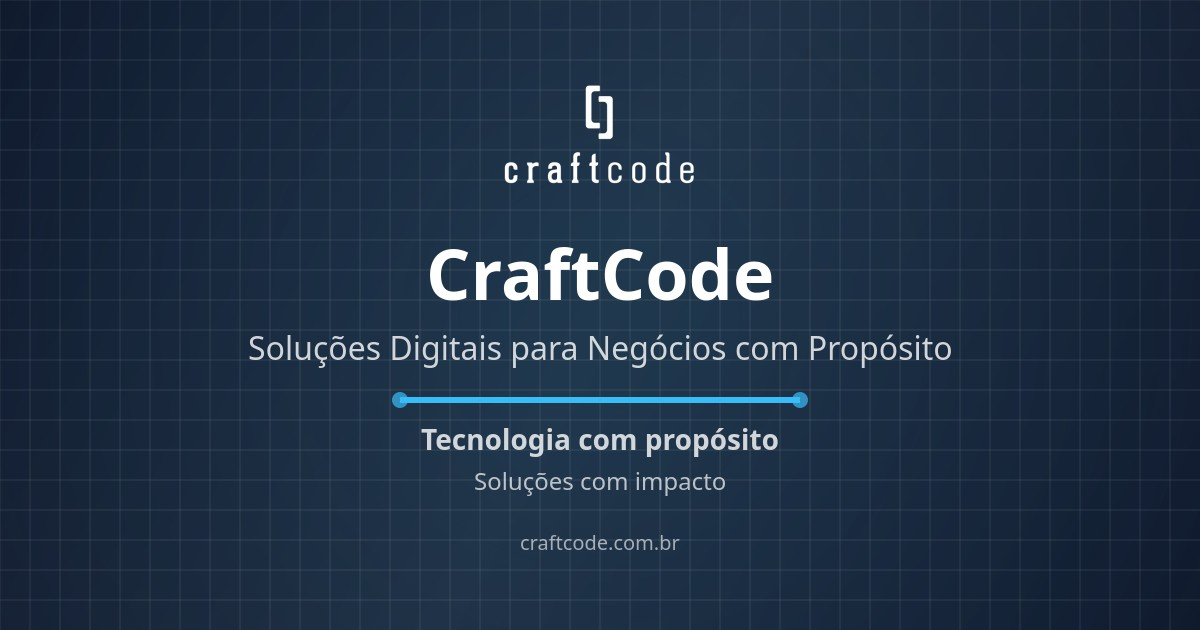
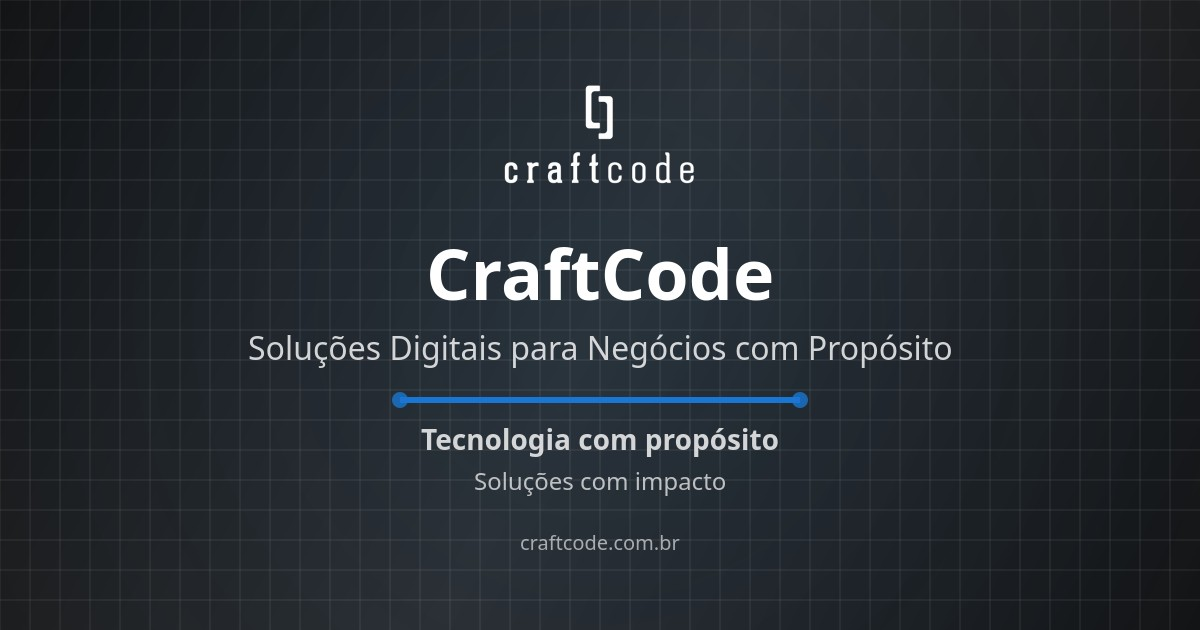
feat(branding): update OG images with official brand color palettes

diff --git a/scripts/generate-og-image.js b/scripts/generate-og-image.js
@@ -41,18 +41,18 @@ async function generateMainOgImage() {
   const canvas = createCanvas(1200, 630);
   const ctx = canvas.getContext('2d');
 
-  // Draw gradient background
+  // Draw gradient background using CraftCode brand colors
   const gradient = ctx.createLinearGradient(0, 0, 1200, 630);
-  gradient.addColorStop(0, '#0f172a');    // Tailwind slate-900
-  gradient.addColorStop(0.5, '#1e293b');  // Tailwind slate-800
-  gradient.addColorStop(1, '#0f172a');    // Tailwind slate-900
+  gradient.addColorStop(0, '#121212');    // Preto Fosco - Primary brand color
+  gradient.addColorStop(0.5, '#2B2B2B');  // Cinza Grafite
+  gradient.addColorStop(1, '#121212');    // Preto Fosco - Primary brand color
   ctx.fillStyle = gradient;
   ctx.fillRect(0, 0, 1200, 630);
   
   // Add a subtle radial gradient overlay for depth
   const radialGradient = ctx.createRadialGradient(600, 315, 100, 600, 315, 800);
-  radialGradient.addColorStop(0, 'rgba(56, 189, 248, 0.1)');  // Tailwind sky-400 with opacity
-  radialGradient.addColorStop(1, 'rgba(56, 189, 248, 0)');
+  radialGradient.addColorStop(0, 'rgba(25, 118, 210, 0.1)');  // Azul Petróleo with opacity
+  radialGradient.addColorStop(1, 'rgba(25, 118, 210, 0)');
   ctx.fillStyle = radialGradient;
   ctx.fillRect(0, 0, 1200, 630);
 
@@ -99,7 +99,7 @@ async function generateMainOgImage() {
   ctx.fillText('Soluções Digitais para Negócios com Propósito', 600, 360);
 
   // Add accent line
-  ctx.strokeStyle = '#38bdf8'; // Tailwind sky-400
+  ctx.strokeStyle = '#1976D2'; // Azul Petróleo - Secondary brand color
   ctx.lineWidth = 6;
   ctx.beginPath();
   ctx.moveTo(400, 400);
@@ -107,7 +107,7 @@ async function generateMainOgImage() {
   ctx.stroke();
   
   // Add decorative elements
-  ctx.fillStyle = 'rgba(56, 189, 248, 0.7)';
+  ctx.fillStyle = 'rgba(25, 118, 210, 0.8)'; // Azul Petróleo with opacity
   ctx.beginPath();
   ctx.arc(400, 400, 8, 0, Math.PI * 2);
   ctx.fill();
@@ -151,16 +151,16 @@ async function generateCardapioFacilOgImage() {
 
   // Draw gradient background - using a warmer color palette for food-related product
   const gradient = ctx.createLinearGradient(0, 0, 1200, 630);
-  gradient.addColorStop(0, '#7c2d12');    // Tailwind amber-900
-  gradient.addColorStop(0.5, '#9a3412');  // Tailwind amber-800
-  gradient.addColorStop(1, '#7c2d12');    // Tailwind amber-900
+  gradient.addColorStop(0, '#E65100');    // Deep Orange 900 - Warm food color
+  gradient.addColorStop(0.5, '#F57C00');  // Orange 800 - Vibrant food color
+  gradient.addColorStop(1, '#E65100');    // Deep Orange 900 - Warm food color
   ctx.fillStyle = gradient;
   ctx.fillRect(0, 0, 1200, 630);
   
   // Add a subtle radial gradient overlay for depth
   const radialGradient = ctx.createRadialGradient(600, 315, 100, 600, 315, 800);
-  radialGradient.addColorStop(0, 'rgba(251, 191, 36, 0.1)');  // Tailwind amber-400 with opacity
-  radialGradient.addColorStop(1, 'rgba(251, 191, 36, 0)');
+  radialGradient.addColorStop(0, 'rgba(255, 183, 77, 0.15)');  // Orange 300 with opacity
+  radialGradient.addColorStop(1, 'rgba(255, 183, 77, 0)');
   ctx.fillStyle = radialGradient;
   ctx.fillRect(0, 0, 1200, 630);
 
@@ -206,7 +206,7 @@ async function generateCardapioFacilOgImage() {
   ctx.fillText('Planejamento de Refeições com IA', 600, 350);
 
   // Add accent line
-  ctx.strokeStyle = '#fbbf24'; // Tailwind amber-400
+  ctx.strokeStyle = '#FFB74D'; // Orange 300 - Vibrant accent
   ctx.lineWidth = 6;
   ctx.beginPath();
   ctx.moveTo(300, 400);
@@ -214,7 +214,7 @@ async function generateCardapioFacilOgImage() {
   ctx.stroke();
   
   // Add decorative elements
-  ctx.fillStyle = 'rgba(251, 191, 36, 0.8)';
+  ctx.fillStyle = 'rgba(255, 183, 77, 0.9)'; // Orange 300 with opacity
   ctx.beginPath();
   ctx.arc(300, 400, 8, 0, Math.PI * 2);
   ctx.fill();

diff --git a/src/pages/CardapioFacil.tsx b/src/pages/CardapioFacil.tsx
@@ -8,7 +8,7 @@ const CardapioFacil = () => {
   const cardapioFacilJsonLd = generateProductJsonLd({
     name: "Cardápio Fácil",
     description: "Planejamento de refeições automatizado, saudável e do jeitinho da sua família. Cardápios personalizados enviados semanalmente via WhatsApp.",
-    image: "/images/og-cardapio-facil.jpg",
+    image: "/images/og-cardapio.jpg",
     url: "https://craftcode.com.br/cardapio-facil"
   });
 
@@ -18,7 +18,7 @@ const CardapioFacil = () => {
         title="Cardápio Fácil | Planejamento de Refeições com IA"
         description="Planejamento de refeições automatizado, saudável e do jeitinho da sua família. Cardápios personalizados enviados semanalmente via WhatsApp."
         ogType="website"
-        ogImage="/images/og-cardapio-facil.jpg"
+        ogImage="/images/og-cardapio.jpg"
         twitterCard="summary_large_image"
         jsonLd={cardapioFacilJsonLd}
       />

diff --git a/src/components/Header.tsx b/src/components/Header.tsx
@@ -22,7 +22,7 @@ const Header = () => {
               className="w-8 h-8" 
               loading="eager" 
             />
-            <h1 className="text-2xl font-bold text-primary">CraftCode Technology</h1>
+            <h1 className="text-2xl font-bold text-primary">CraftCode</h1>
           </div>
 
           {/* Desktop Navigation */}

diff --git a/TODO.md b/TODO.md
@@ -1,4 +1,4 @@
-# CraftCode Digital Hub - TODO List
+# CraftCode Technology - TODO List
 
 ## Phase 1: Planning
 - [✅] Requirements gathering
